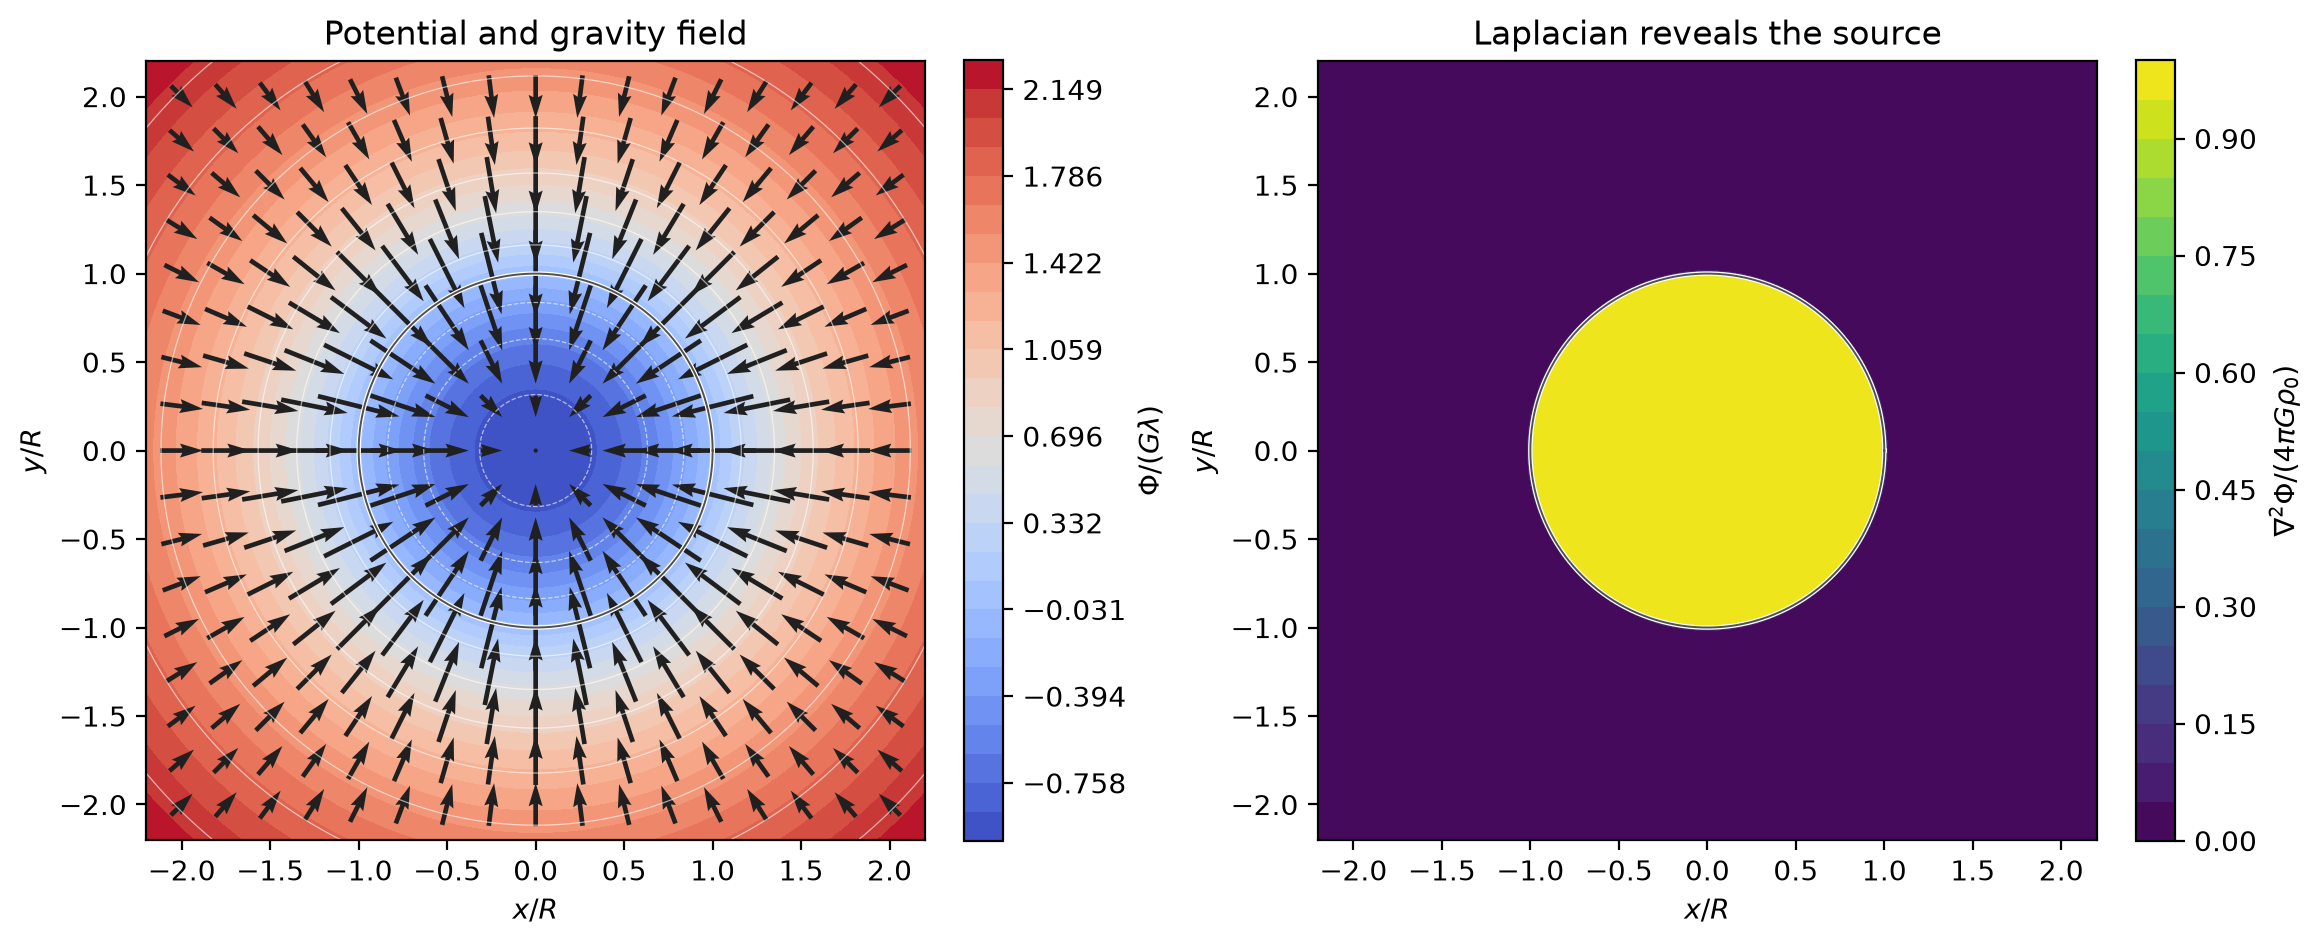
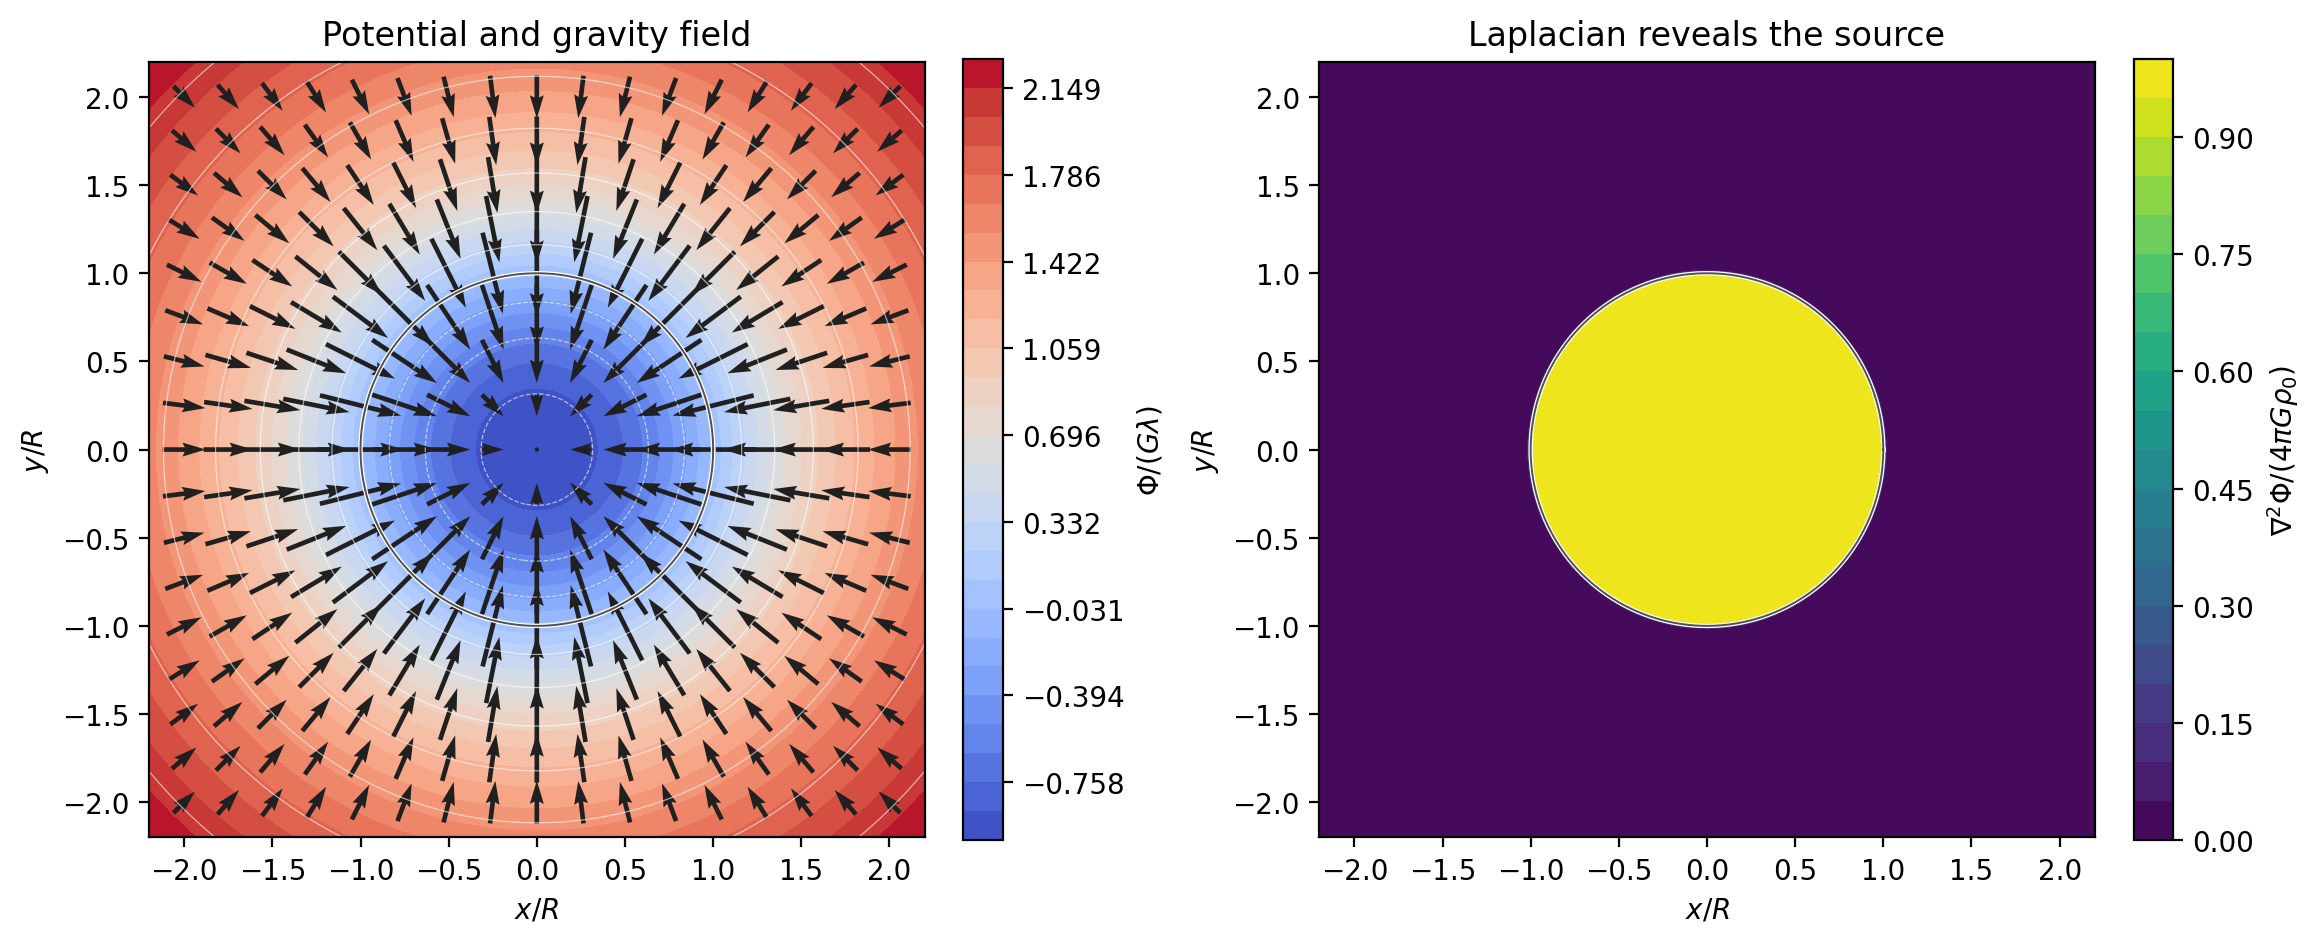
publish lab2 em waves solutions

diff --git a/book/5_electromagnetic_waves/labs/lab2_em_waves_solutions.md b/book/5_electromagnetic_waves/labs/lab2_em_waves_solutions.md
@@ -318,6 +318,12 @@ $$
 
 The polarization density supplies a fraction $\chi_e/(1+\chi_e)=2.15/3.15\simeq68\%$ of $\mathbf{D}$.
 
+```{figure} ../figures/susceptibility_three_steps.svg
+:width: 100%
+
+Susceptibility in three steps: the field displaces bound charge, the material fills with dipoles ($\mathbf{P}=\epsilon_0\chi_e\mathbf{E}$), and their field opposes the applied one, giving $\epsilon_r = 1+\chi_e$.
+```
+
 (e) The pulse travels down and back through the ice at $c_p$:
 
 $$
